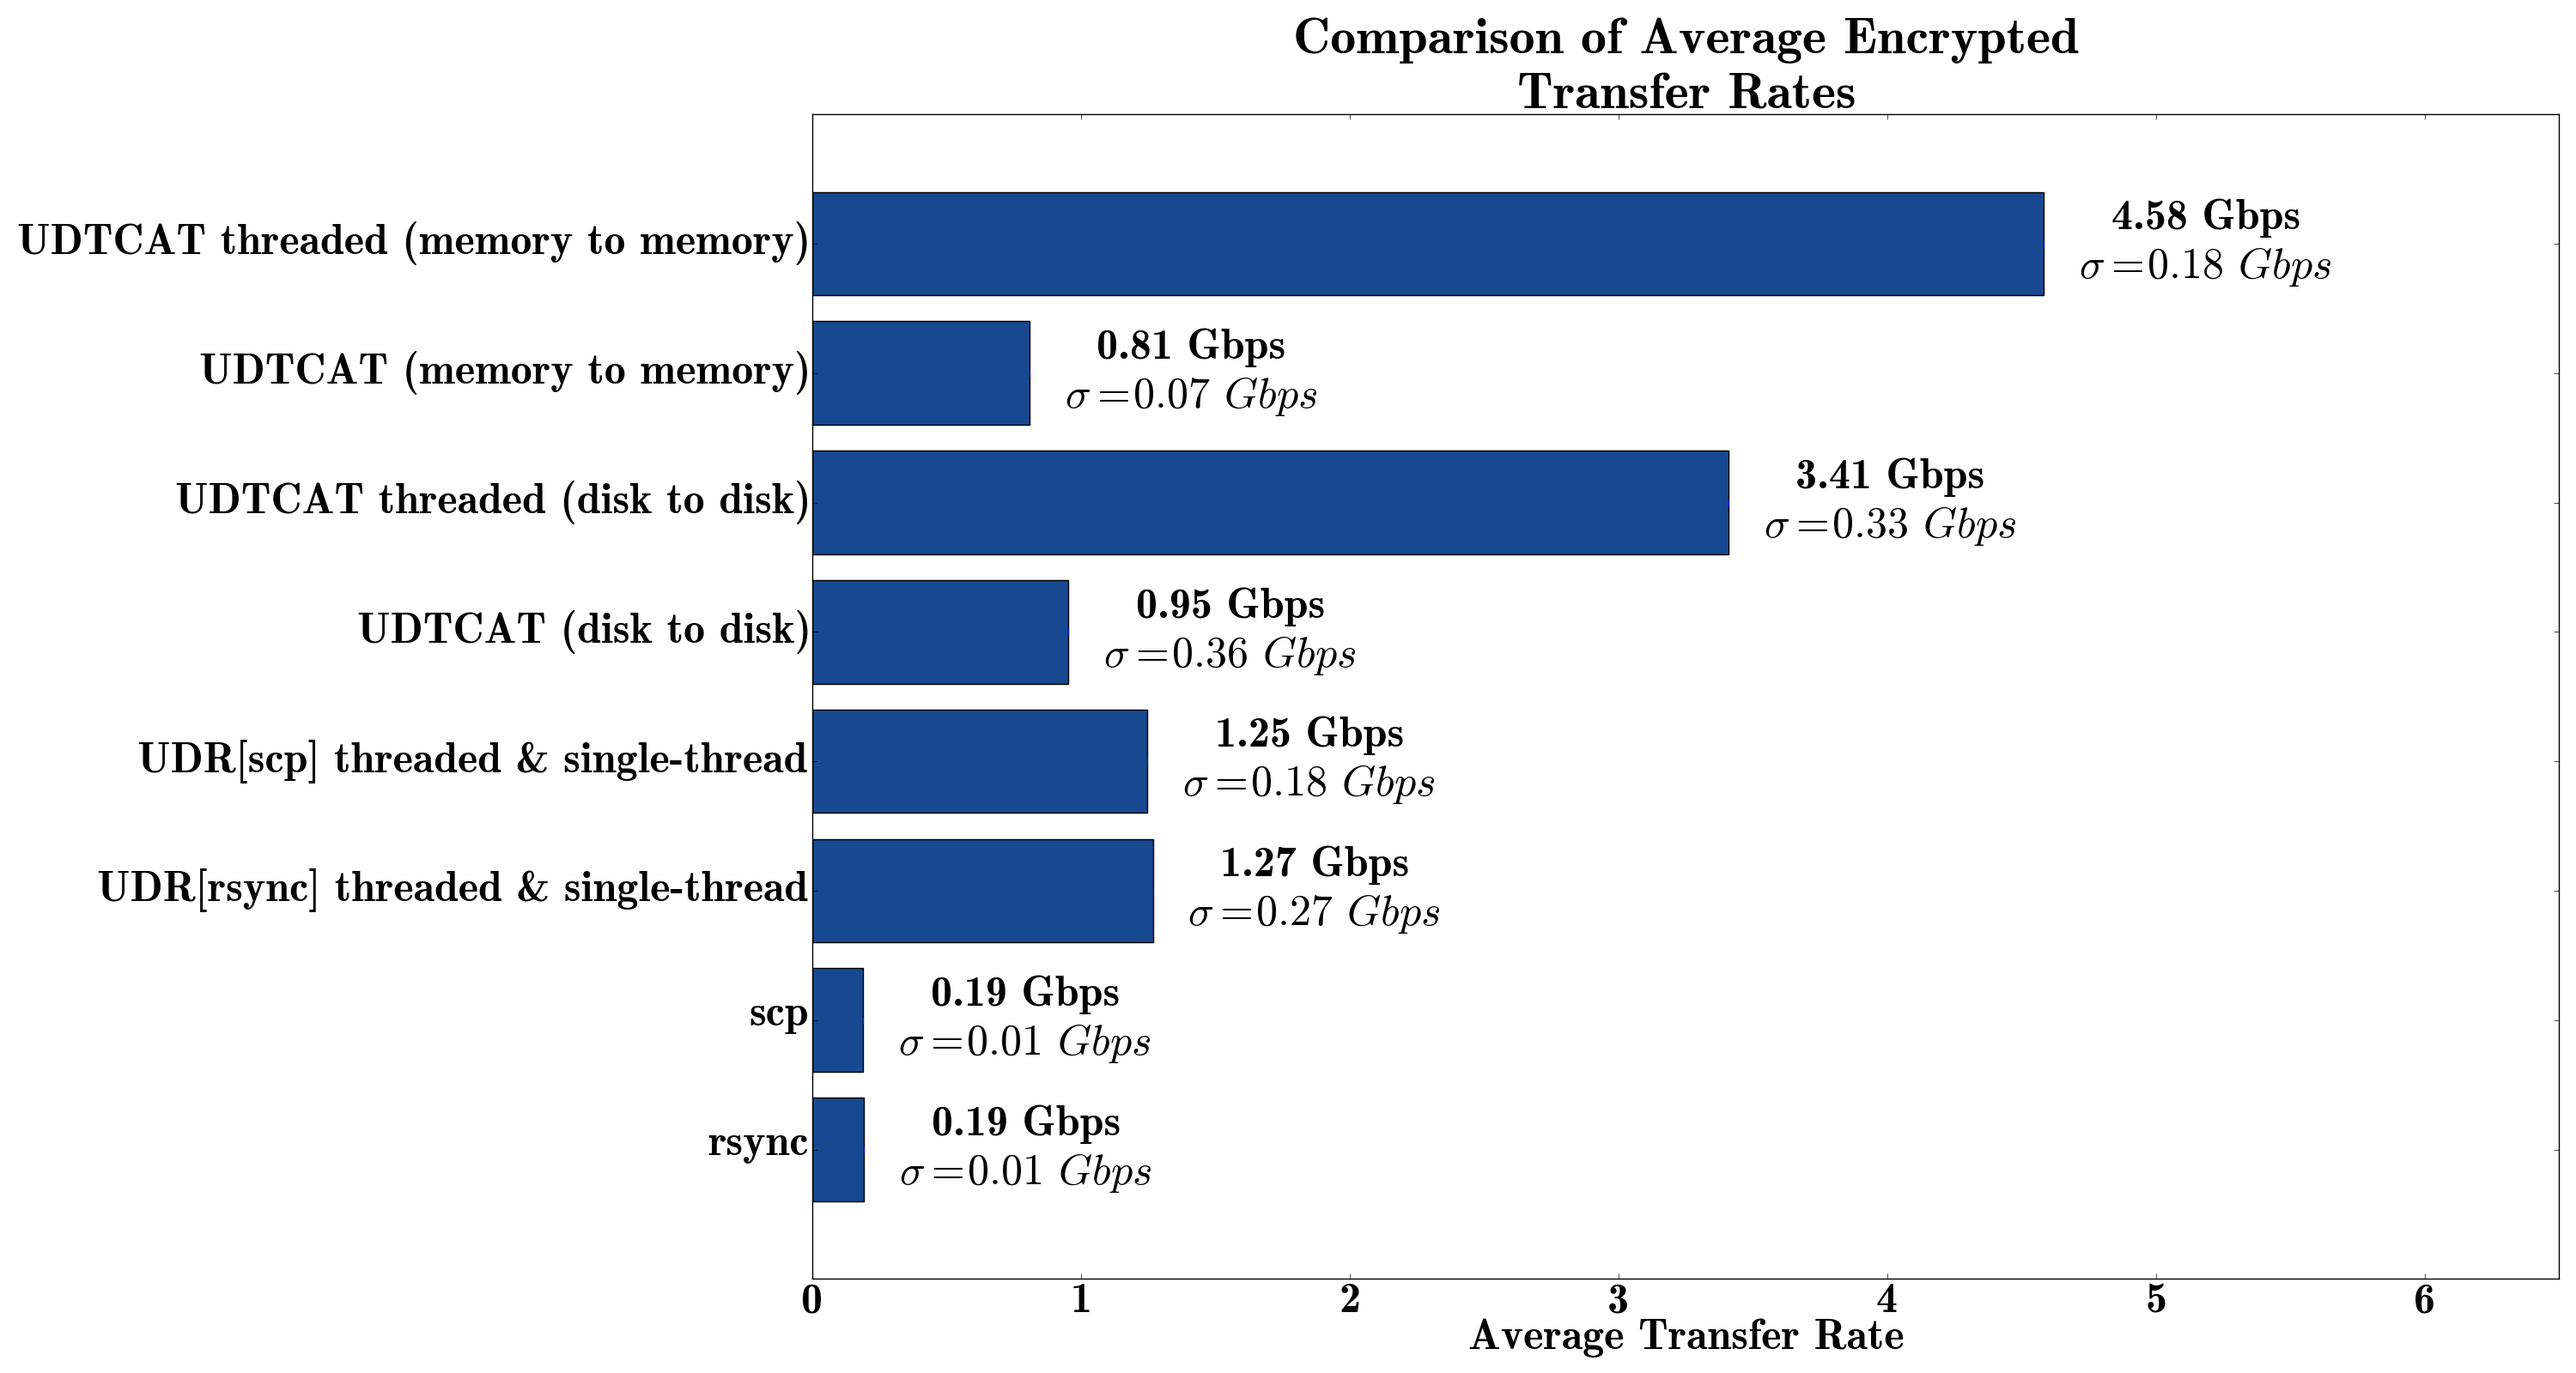
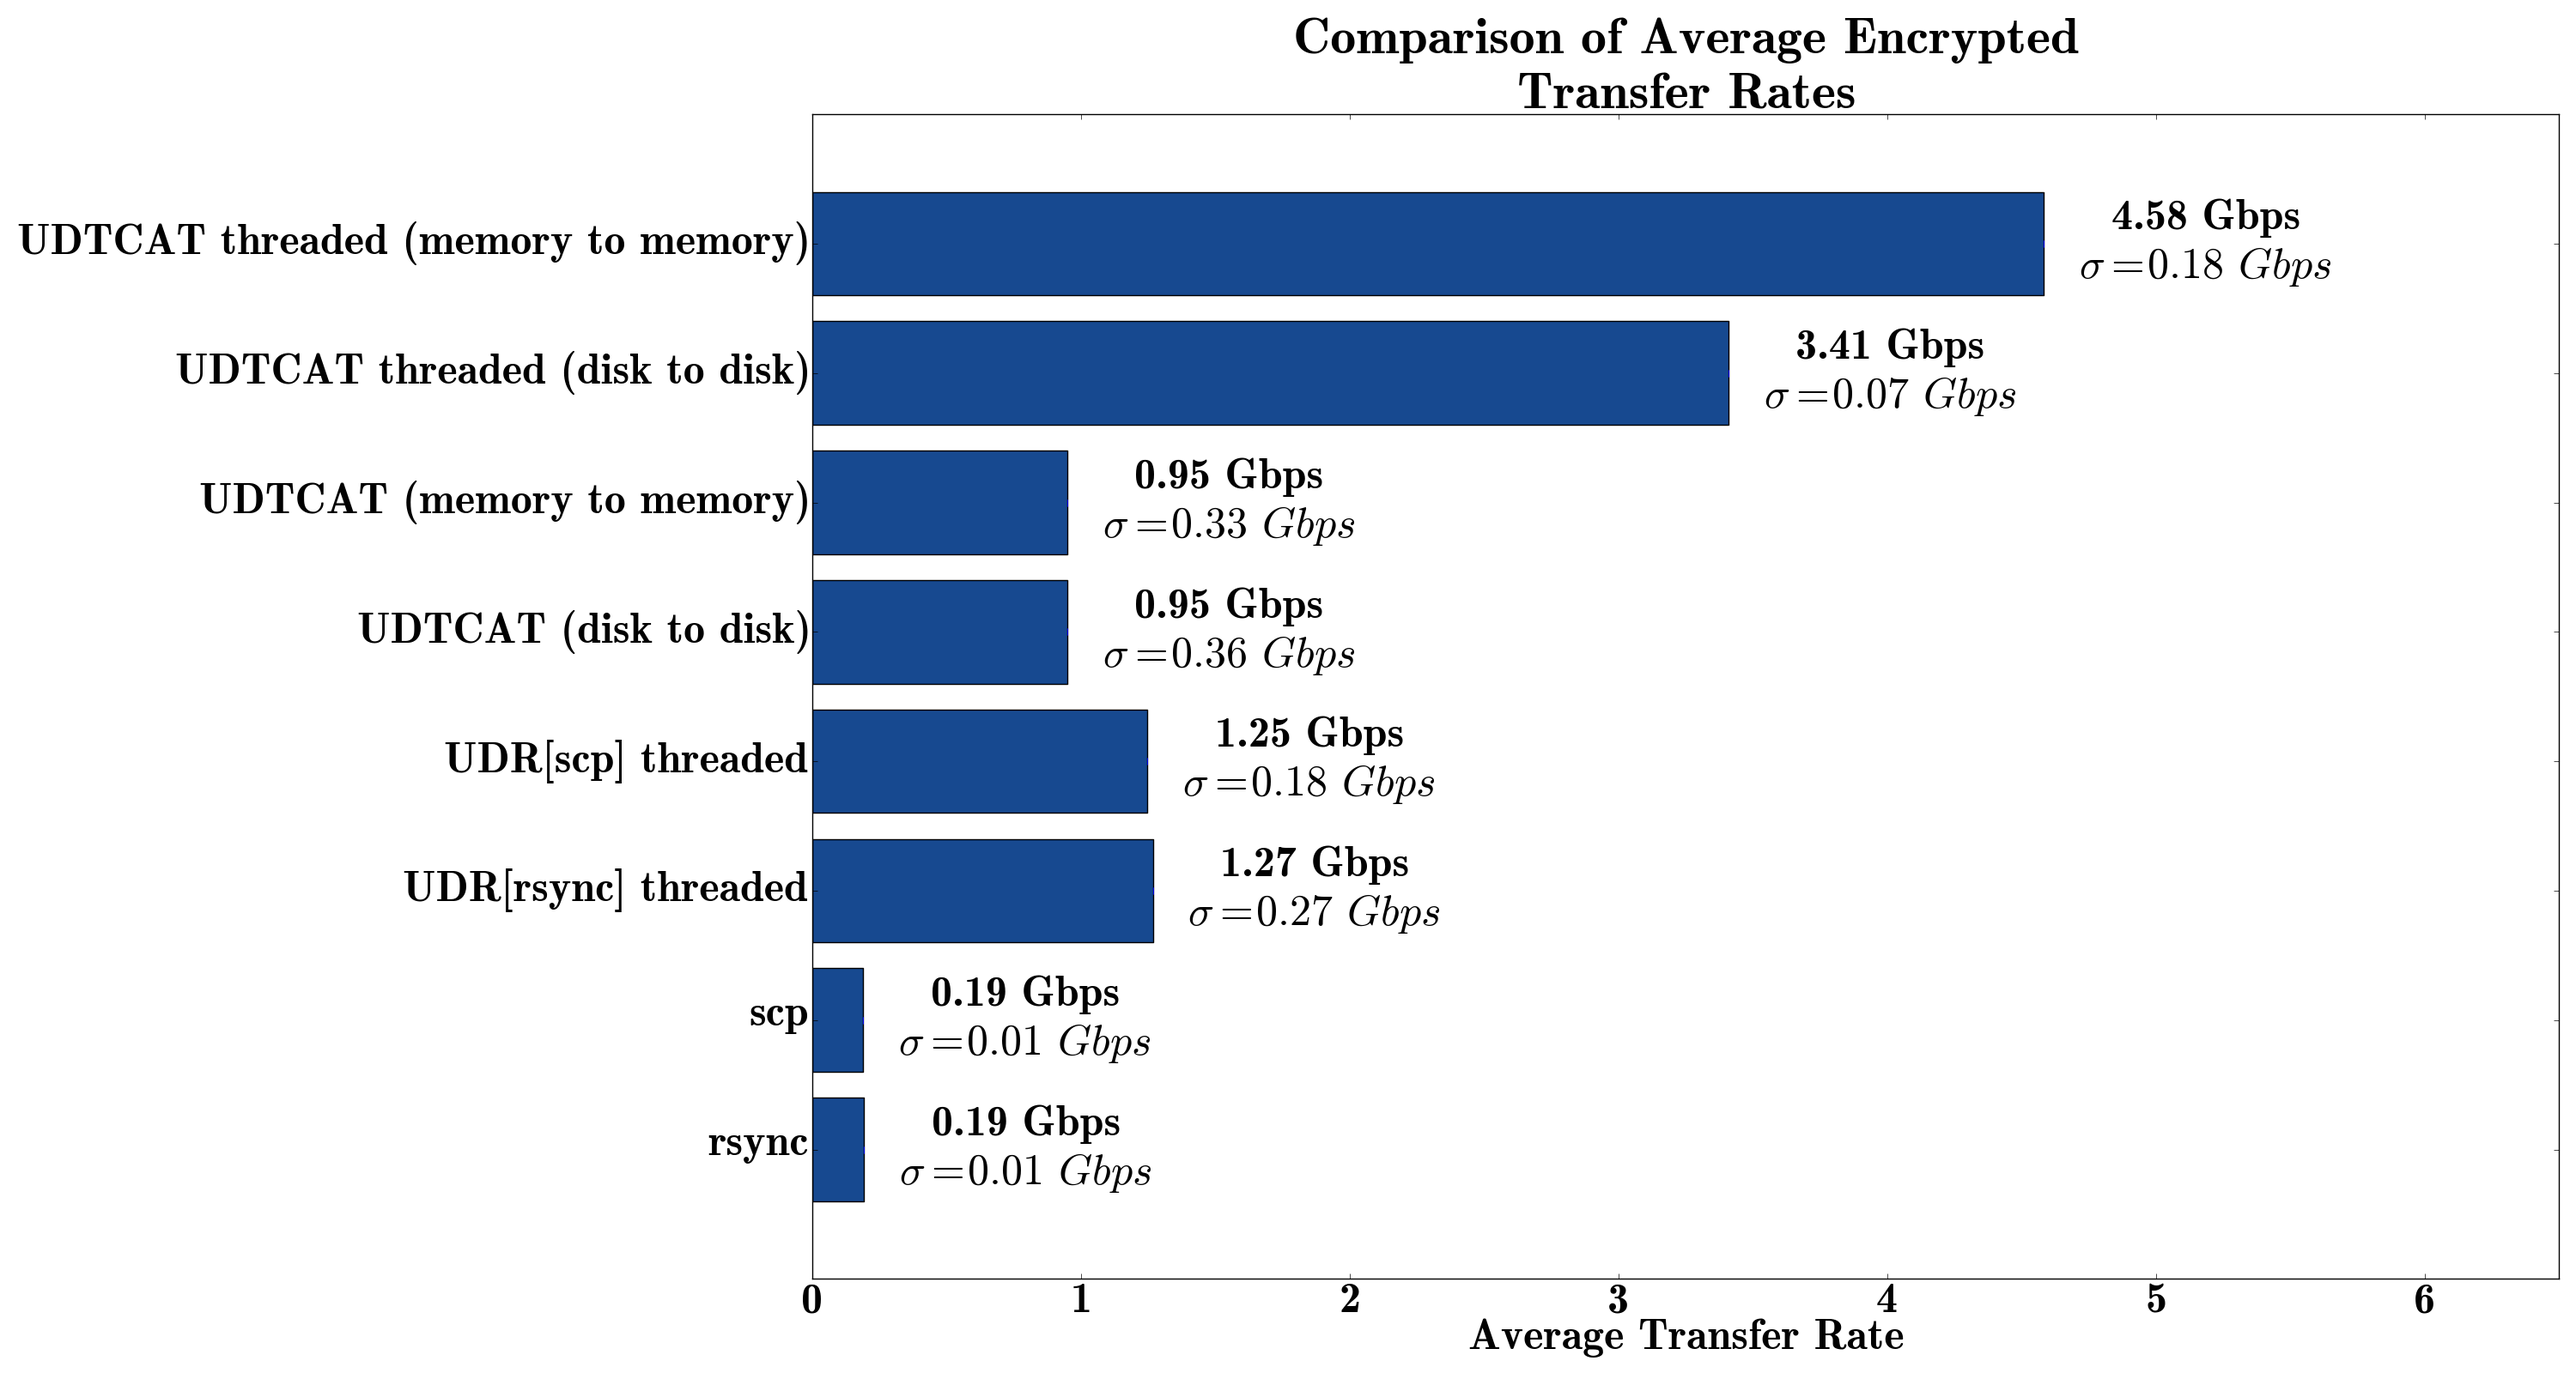
quick commit, no comment

diff --git a/sample/vnstatPlot.py b/sample/vnstatPlot.py
@@ -6,7 +6,17 @@ from scipy import *
 from scipy import optimize
 
 
-resolution=1
+resolution=5
+
+
+rcParams['figure.figsize'] = 30, 12
+
+font = {'family' : 'normal',
+        'weight' : 'bold',
+        'size'   : 42}
+
+matplotlib.rc('font', **font)
+
 
 
 def vntoi(x, label):
@@ -72,16 +82,16 @@ def plotter(path, label):
     tx_label = label
     
     if max(rxs) > .1:
-        plot(x, rxs, alpha=.7, linewidth=3, label=rx_label)
+        plot(x, rxs, alpha=.7, linewidth=10, label=rx_label)
     if max(txs) > .1:
-        plot(x, txs, alpha=.7, linewidth=3, label=tx_label)
+        plot(x, txs, alpha=.7, linewidth=10, label=tx_label)
 
 
 # Label PLot
 # for i in range(1,len(sys.argv)-1):
 files=[
-    ["udtcat_disk_enc32.dat", "UDTCAT disk to disk encrypted (32 threads)"], 
-    ["udtcat_memory_enc32.dat", "UDTCAT memory to memory encrypted (32 threads)"],
+    ["udtcat_disk_unencrypted_32.dat", "UDTCAT disk to disk unencrypted"], 
+    ["udtcat_disk_encrypted_32.dat", "UDTCAT disk to disk threaded encrypytion"],
   ]
 
 
@@ -94,8 +104,7 @@ for arg in files:
 title="Sample data transfer with selected parameters"
 ax.set_title(title)
 ylim(0,10)
-xlim(0, 40)
-
+xlim(0,100)
 # plt.tight_layout(pad=10)
 
 
@@ -118,6 +127,6 @@ title = insert
 plt.set_facecolor('white')
 plt.savefig("sample.png")
 # savefig(title+".png", box_extra_artists=(lgd,), bbox_inches='tight')
-show()
+# show()
         
         

diff --git a/encrypted/compare_encrypted.py b/encrypted/compare_encrypted.py
@@ -15,11 +15,11 @@ matplotlib.rc('font', **font)
 tests = (
     "rsync",
     "scp",
-    "UDR[rsync] threaded & single-thread",
-    "UDR[scp] threaded & single-thread",
+    "UDR[rsync] threaded",
+    "UDR[scp] threaded",
     "UDTCAT (disk to disk)",
-    "UDTCAT threaded (disk to disk)",
     "UDTCAT (memory to memory)",
+    "UDTCAT threaded (disk to disk)",
     "UDTCAT threaded (memory to memory)",
     )
 
@@ -28,9 +28,9 @@ performance = (
 0.191090869565,
 1.26881889764,
 1.24770186335,
-0.954241380952,
+.95,
+.95,
 3.41,
-0.809574539474,
 4.58362318841,
 )
 
@@ -48,10 +48,16 @@ stddev = (
 y_pos = np.arange(len(tests))
 error = np.random.rand(len(tests))
 
+
 plt.barh(y_pos, performance, color='#174990', xerr=0, align='center', alpha=1.)
 plt.yticks(y_pos, tests, weight='bold')
 plt.xlim(0, 6.5)
 plt.xlabel('Average Transfer Rate', weight='bold')
+
+
+# yaxis.grid(color='gray', linestyle='dashed
+# plt.xaxis.grid(color='gray', linestyle='dashed')
+
 
 
 for i in range(len(tests)):

diff --git a/unencrypted/compare_unencrypted.py b/unencrypted/compare_unencrypted.py
@@ -16,14 +16,16 @@ tests = (
     "UDR[scp]",
     "UDTCAT disk to disk",
     "UDTCAT memory to memory"
+    # "UDTCAT RTT = 1ms memory to memory",
     )
 
 performance = (
     0.8222425,
-    1.13264705882,
-    1.22,
+    1.28,
+    1.25,
     4.894,
     5.41,
+    # 7.46,
 )
 
 stddev = (
@@ -32,6 +34,7 @@ stddev = (
 .04,
 .75,
 .05,
+# 1.07,
 )
 
 
@@ -41,6 +44,7 @@ error = np.random.rand(len(tests))
 plt.barh(y_pos, performance, color='#174990', xerr=0, align='center', alpha=1.)
 plt.yticks(y_pos, tests, weight='bold')
 plt.xlim(0, 6.5)
+# plt.xlim(0, 8.5)
 plt.xlabel('Average Transfer Rate', weight='bold')
 
 for i in range(len(tests)):

diff --git a/extract_vn.py b/extract_vn.py
@@ -9,6 +9,7 @@ from scipy import optimize
 resolution=5
 
 
+
 def vntoi(x, label):
     if "k" in label:
         return float(x)/1e6
